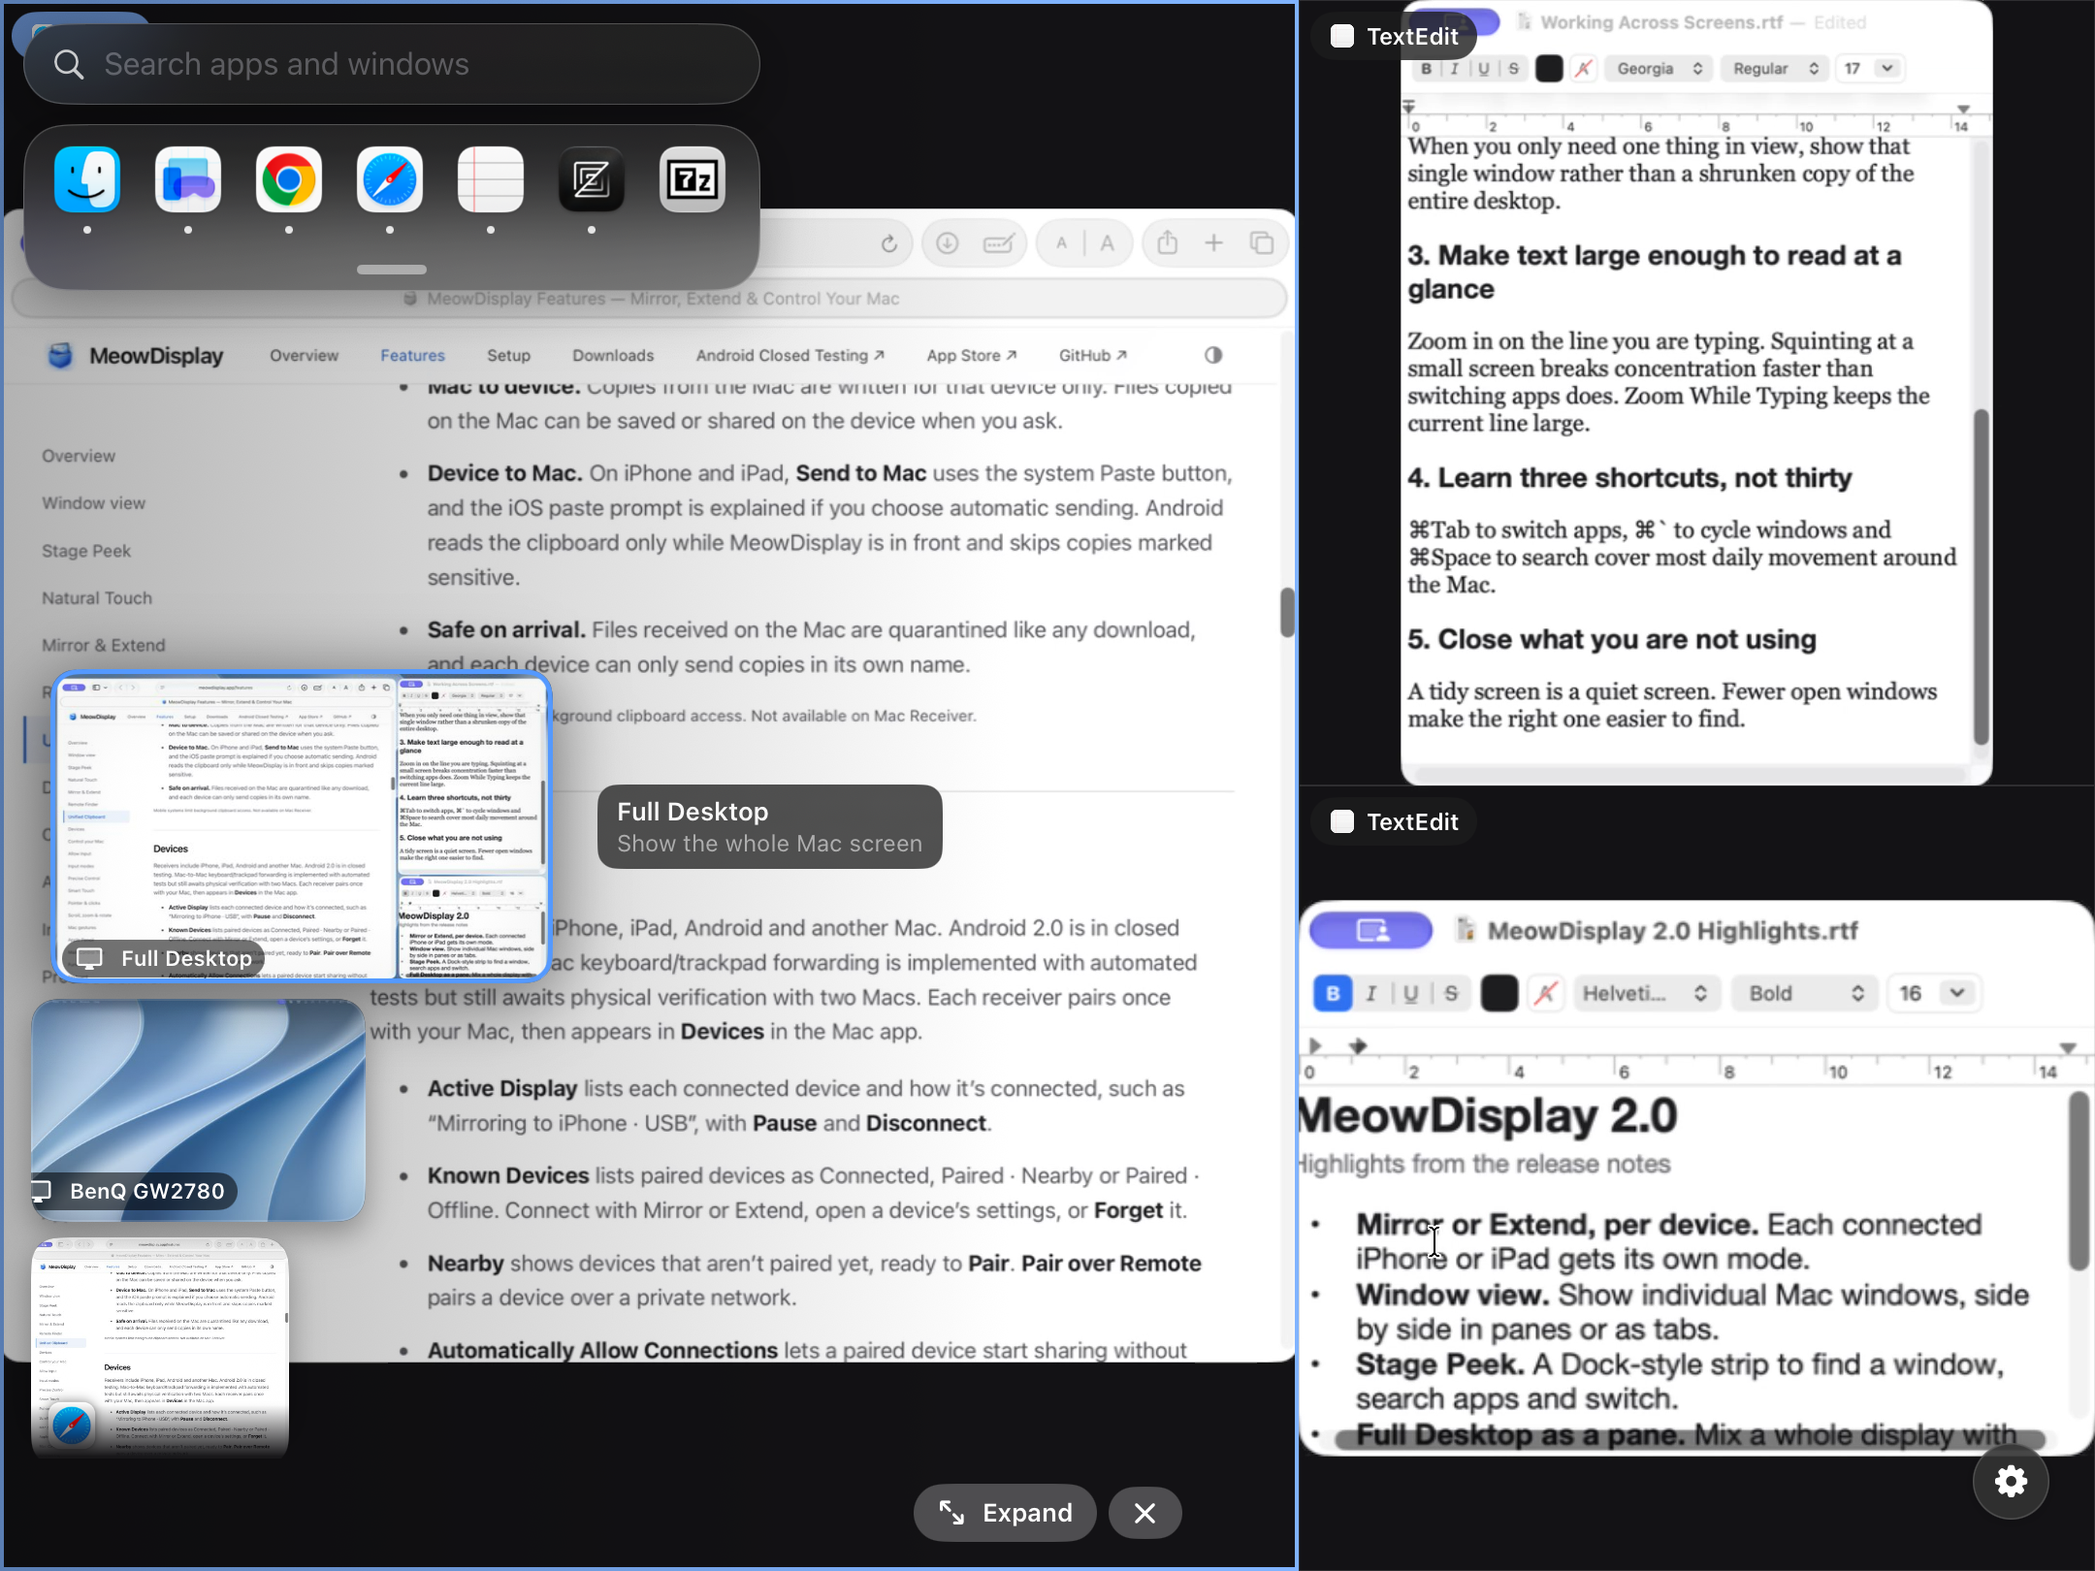
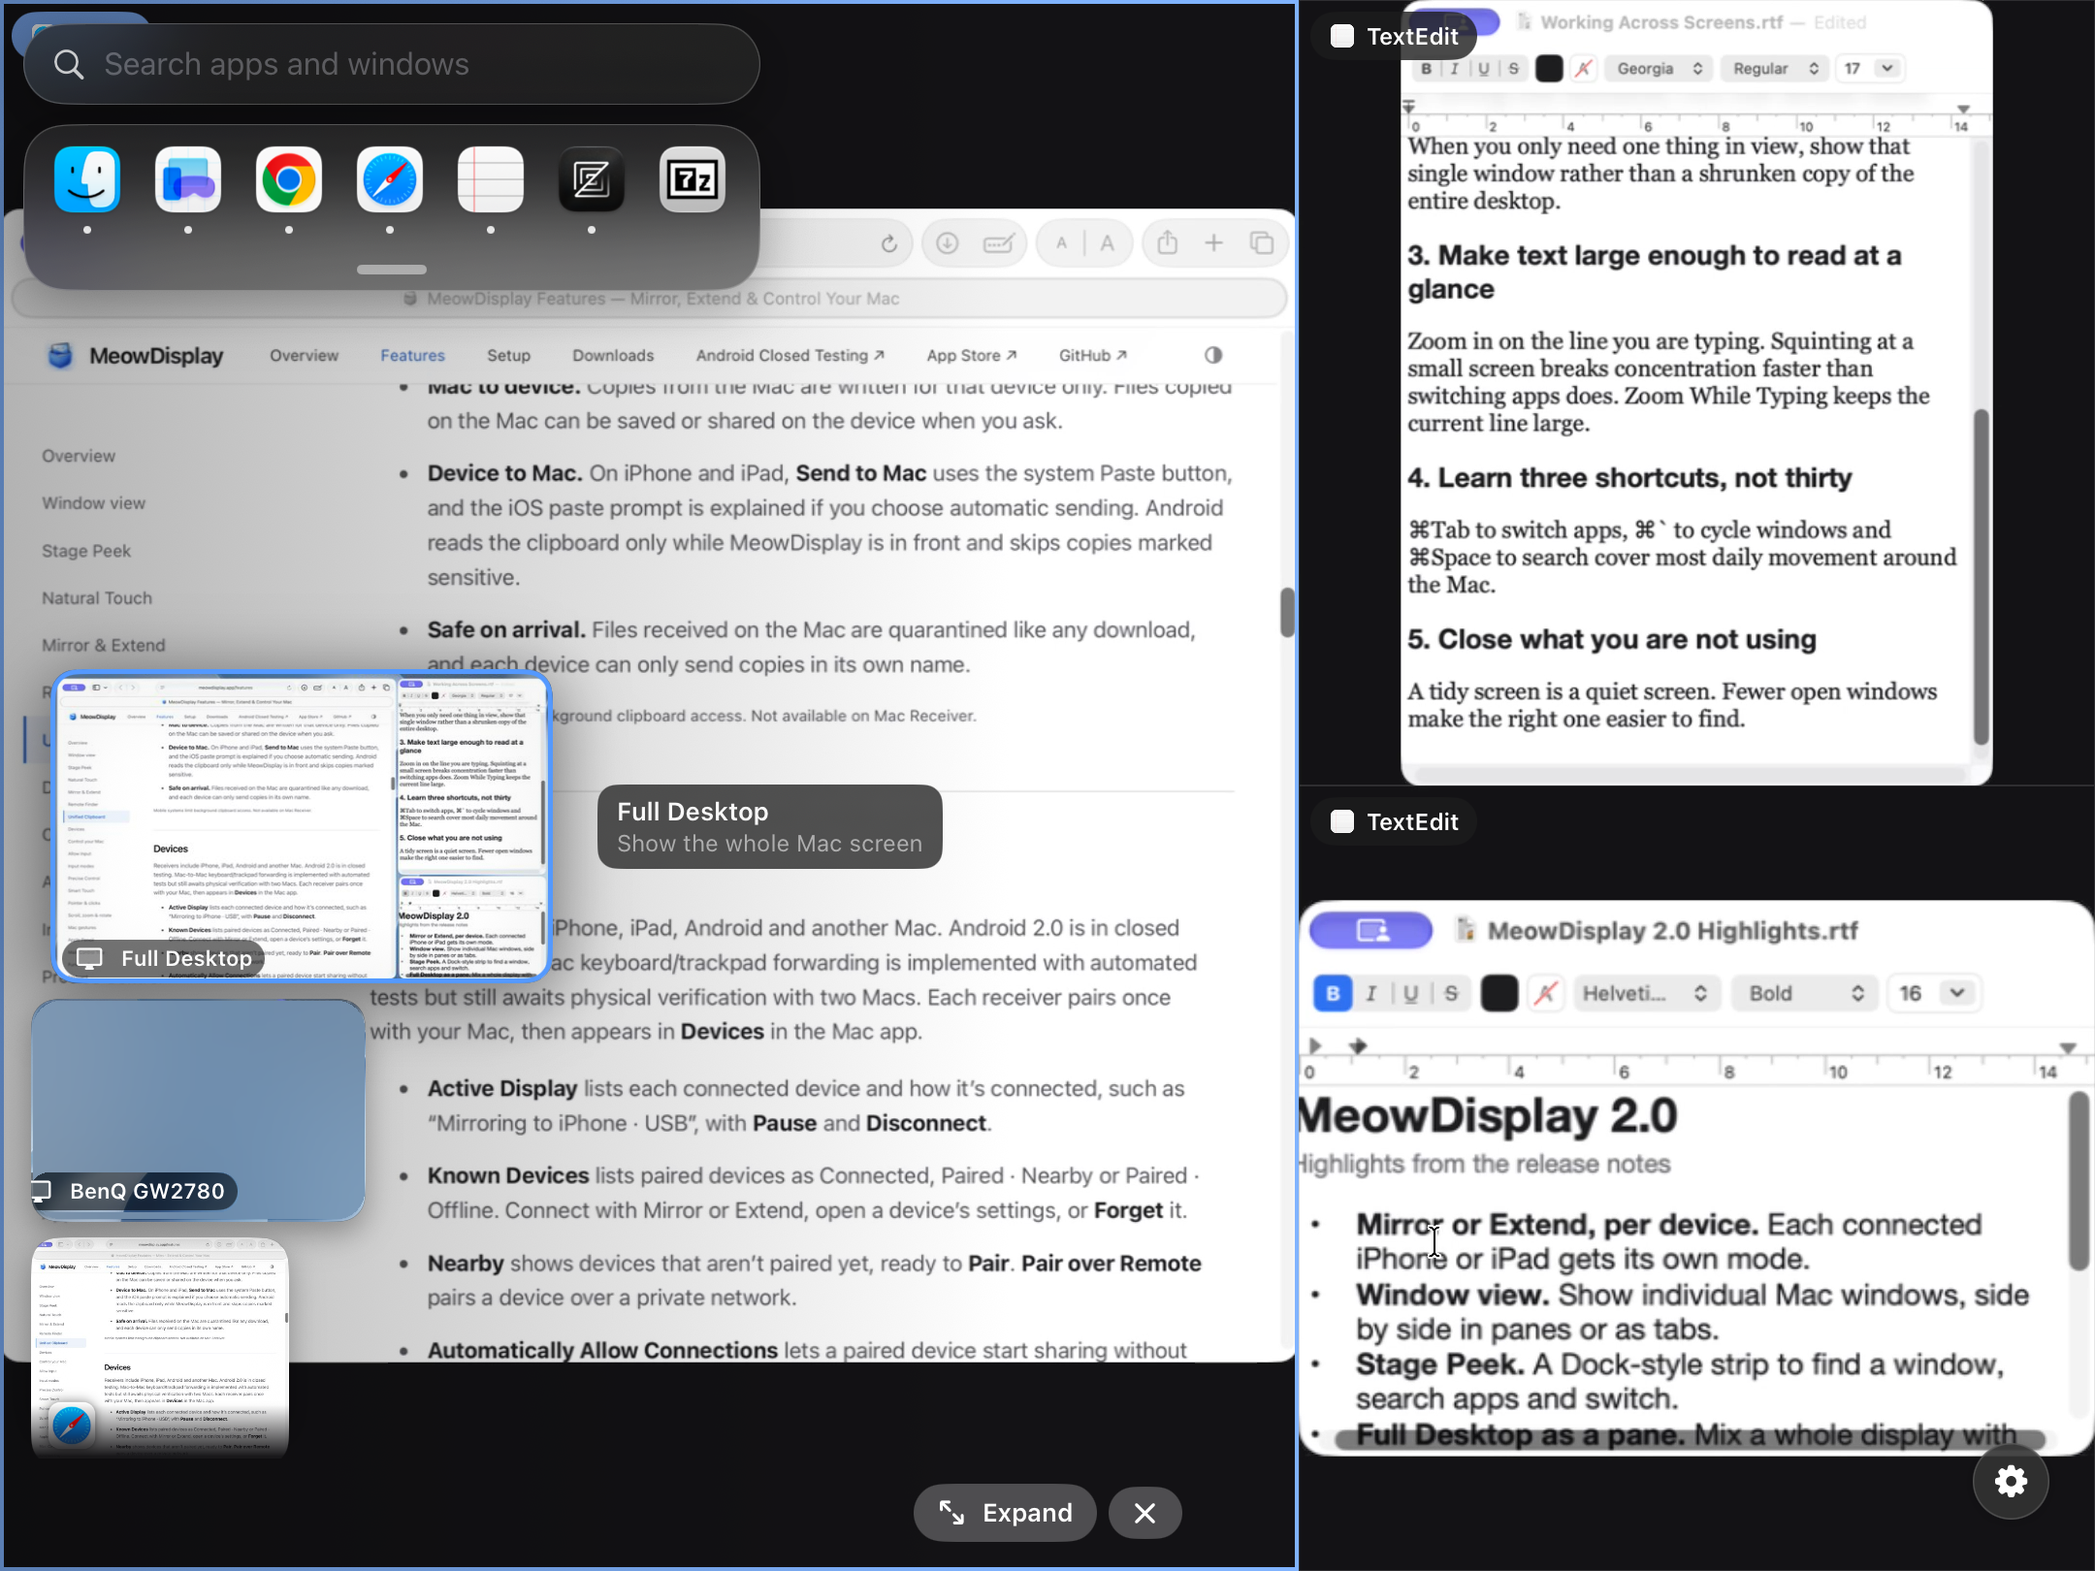
fix(press): remove MacBook mockups and wallpaper from the press kit (r3)
The MacBook mockups showed a third-party desktop wallpaper whose
redistribution rights could not be verified, and Apple's marketing
artwork licence covers App Store apps while the Mac app ships directly.
Promotional graphics now use the unframed Mac app window, the display
thumbnail in the Stage Peek screenshots is blurred, and the complete
download moves to MeowDisplay-Press-Kit-2.0-r3.zip.

Changed region(s): [[0.0, 0.6173, 0.1861, 0.8025]]

diff --git a/tools/press-kit/press.template.html b/tools/press-kit/press.template.html
@@ -7,7 +7,7 @@
 <link rel="icon" href="/assets/favicon.png"><meta name="color-scheme" content="light dark">
 <script>try{var t=localStorage.getItem('md-theme');if(t==='light'||t==='dark')document.documentElement.dataset.theme=t}catch(e){}</script>
 <link rel="stylesheet" href="/style.css"><script src="/site.js" defer></script>
-<style>{{STYLE}}</style><meta property="og:title" content="MeowDisplay Press Kit"><meta property="og:type" content="website"><meta property="og:url" content="https://meowdisplay.app/press"><meta property="og:image" content="https://meowdisplay.app/press-kit/Graphics/MeowDisplay-Social-1200x630.png"><meta property="og:image:alt" content="MeowDisplay on a MacBook Air and an iPhone, showing Mac windows side by side."><meta name="twitter:card" content="summary_large_image"></head>
+<style>{{STYLE}}</style><meta property="og:title" content="MeowDisplay Press Kit"><meta property="og:type" content="website"><meta property="og:url" content="https://meowdisplay.app/press"><meta property="og:image" content="https://meowdisplay.app/press-kit/Graphics/MeowDisplay-Social-1200x630.png"><meta property="og:image:alt" content="The MeowDisplay Mac app and an iPhone showing Mac windows side by side."><meta name="twitter:card" content="summary_large_image"></head>
 <body>
 <a class="skip" href="#main">Skip to content</a>
 <header class="site-header">

diff --git a/tools/press-kit/build.py b/tools/press-kit/build.py
@@ -21,8 +21,8 @@ CATEGORIES = ["Screenshots", "Mockups", "Graphics", "Video", "Brand", "Informati
 ZIP_NAMES = {c: f"MeowDisplay-Press-Kit-{c}.zip" for c in CATEGORIES}
 ZIP_DATE = (2026, 11, 3, 0, 0, 0)
 # Over Cloudflare Pages' 25 MiB file limit, so it is published as a GitHub Release asset, not on the site.
-# Each content revision gets a new asset name on the press-kit-2.0 release; earlier assets stay published unchanged.
-COMPLETE_NAME = "MeowDisplay-Press-Kit-2.0-r2.zip"
+# Each content revision gets a new asset name on the press-kit-2.0 release; superseded assets are removed.
+COMPLETE_NAME = "MeowDisplay-Press-Kit-2.0-r3.zip"
 COMPLETE_URL = f"https://github.com/raiseCatError/meowdisplay/releases/download/press-kit-2.0/{COMPLETE_NAME}"
 
 COLLECTIONS = [
@@ -31,7 +31,7 @@ COLLECTIONS = [
      ["iPad-Window-View-Three-Panes", "iPhone-Window-View-Two-Panes", "iPad-Window-Picker", "iPhone-Window-Picker"]),
     ("stage-peek", "Stage Peek",
      "Swipe in from the edge to see running apps, open windows and the Mac's displays, then switch or add a pane.",
-     ["iPad-Stage-Peek", "iPhone-Stage-Peek", "iPhone-Stage-Peek-Expanded"]),
+     ["iPad-Stage-Peek", "iPhone-Stage-Peek"]),
     ("input", "Touch, keyboard and typing",
      "A control tray with modifier keys and shortcuts, three touch modes, a Text Bar and Zoom While Typing.",
      ["iPhone-Typing-Zoom-While-Typing", "iPhone-Control-Tray", "iPad-Settings-Input"]),
@@ -158,7 +158,7 @@ def page(items, zips):
 <p class="pk-actions"><a class="button" href="{COMPLETE_URL}">Download complete press kit</a><span class="pk-note">ZIP · {mb(total)} · {len(items)} assets plus README ({len(items) + 1} files) · hosted on GitHub<br>SHA-256 <code class="pk-sha">{hashlib.sha256((KIT / COMPLETE_NAME).read_bytes()).hexdigest()}</code></span></p>
 <nav class="pk-jump" aria-label="Press kit sections"><a href="#features">Features</a><a href="#screenshots">Screenshots</a><a href="#mockups">Device mockups</a><a href="#video">B-roll</a><a href="#graphics">Graphics</a><a href="#text">Text &amp; facts</a><a href="#reviewers">Reviewer's guide</a><a href="#brand">Brand</a><a href="#downloads">Downloads</a><a href="#contact">Contact</a></nav>
 </div>
-<div class="pk-hero-art wrap">{figure(by["Hero-Transparent"], 2000, "pk-plain", "MeowDisplay on a MacBook Air (M2) and an iPhone 14 Pro Max: the Mac app with two devices connected, and Mac windows side by side on the iPhone.", eager=True)}</div></section>''']
+<div class="pk-hero-art wrap">{figure(by["Hero-Transparent"], 2000, "pk-plain", "The MeowDisplay Mac app with two devices connected, and Mac windows side by side on an iPhone 14 Pro Max.", eager=True)}</div></section>''']
 
     out.append('''<section class="section pk-overview"><div class="wrap">
 <p class="eyebrow">Overview</p><h2>Your Mac, on the screens you already own.</h2>
@@ -190,14 +190,14 @@ def page(items, zips):
     grid = "".join(f'<div class="pk-cell" data-platform="{i["file"].split("/")[1]}">{figure(i, 900)}</div>' for i in shots)
     counts = {p: sum(1 for i in shots if i["file"].split("/")[1] == p) for p in ["iPhone", "iPad", "Mac"]}
     out.append(f'''<section class="section" id="screenshots"><div class="wrap"><p class="eyebrow">Screenshots</p><h2>Original screenshots.</h2>
-<p class="pk-sub">Native-resolution, unedited captures of the released 2.0.0 apps on a physical iPhone 14 Pro Max, iPad (9th generation) and MacBook Air (M2), with demonstration content only. Two window-picker images are cropped.</p>
+<p class="pk-sub">Native-resolution captures of the released 2.0.0 apps on a physical iPhone 14 Pro Max, iPad (9th generation) and MacBook Air (M2), with demonstration content only. The only edits: two window-picker images are cropped, and the external-display thumbnail in the two Stage Peek images is blurred to remove a third-party wallpaper.</p>
 <div class="pk-filter" role="group" aria-label="Filter screenshots by platform"><button type="button" aria-pressed="true" data-filter="all">All {len(shots)}</button><button type="button" aria-pressed="false" data-filter="iPhone">iPhone {counts["iPhone"]}</button><button type="button" aria-pressed="false" data-filter="iPad">iPad {counts["iPad"]}</button><button type="button" aria-pressed="false" data-filter="Mac">Mac {counts["Mac"]}</button></div>
 <div class="pk-grid">{grid}</div>
 <p class="pk-dl"><a href="/press-kit/{ZIP_NAMES["Screenshots"]}" download>Download all screenshots · ZIP · {mb(zips["Screenshots"])}</a></p></div></section>''')
 
     mocks = "".join(figure(i, 1400, "pk-plain") for i in cat("Mockups"))
     out.append(f'''<section class="section wash" id="mockups"><div class="wrap"><p class="eyebrow">Device mockups</p><h2>Real screens, real hardware.</h2>
-<p class="pk-sub">Transparent PNGs: the screenshots above composited into Apple's official iPhone 14 Pro Max and MacBook Air 13-inch (M2) product frames. The plain MacBook shows the desktop with no windows. Apple no longer publishes an iPad (9th generation) frame, so iPad images are supplied as screenshots.</p>
+<p class="pk-sub">Transparent PNGs: iPhone screenshots composited into Apple's official iPhone 14 Pro Max frame. The Mac app is distributed outside the App Store, so it is shown as an unframed window rather than in a MacBook frame. Apple no longer publishes an iPad (9th generation) frame, so iPad images are supplied as screenshots.</p>
 <div class="pk-grid pk-grid-2">{mocks}</div>
 <p class="pk-dl"><a href="/press-kit/{ZIP_NAMES["Mockups"]}" download>Download all mockups · ZIP · {mb(zips["Mockups"])}</a></p></div></section>''')
 

diff --git a/press-kit/Information/MeowDisplay-Usage-and-Brand-Guidelines.md b/press-kit/Information/MeowDisplay-Usage-and-Brand-Guidelines.md
@@ -9,9 +9,7 @@ Journalists, reviewers and creators may reproduce the following, unmodified, in 
 
 Please credit "MeowDisplay" and link to https://meowdisplay.app where the format allows.
 
-Device mockups and promotional graphics that contain Apple product images are different. The device frames belong to Apple. The developer uses them under Apple's App Store Marketing Artwork License, which is non-transferable and limited to marketing MeowDisplay, so we cannot grant you any rights in Apple's artwork. These images are published to promote MeowDisplay and are meant to be shown unaltered in coverage of it. Do not extract, edit or reuse the device frames, and do not use these images for anything else. For hardware imagery in other contexts, use the unframed screenshots or obtain artwork from Apple yourself.
-
-The MacBook images also show the developer's desktop wallpaper, a third-party picture whose rights are not covered by this permission.
+Device mockups and promotional graphics that contain Apple product images are different. The iPhone frames belong to Apple. The developer uses them under Apple's App Store Marketing Artwork License, which is non-transferable and limited to marketing the MeowDisplay app on the App Store, so we cannot grant you any rights in Apple's artwork. These images are published to promote MeowDisplay and are meant to be shown unaltered in coverage of it. Do not extract, edit or reuse the device frames, and do not use these images for anything else. For hardware imagery in other contexts, use the unframed screenshots or obtain artwork from Apple yourself.
 
 For any other use, email j@raisecaterror.com.
 
@@ -29,9 +27,9 @@ Use the supplied PNGs as they are. Do not redraw, recolour, crop, stretch or add
 - Remote Access needs a private-network route such as Tailscale; do not describe it as a cloud service.
 
 ## Three kinds of media
-1. Screenshots — unedited captures of the released 2.0.0 apps on a physical iPhone 14 Pro Max, iPad (9th generation) and MacBook Air (M2). Two window-picker images are cropped, which is noted in the asset notes.
-2. Device mockups — the same screenshots composited into Apple's official product frames. They are illustrations of the real interface, not photographs.
-3. Promotional graphics — layouts combining mockups, screenshots, the icon and short text.
+1. Screenshots — captures of the released 2.0.0 apps on a physical iPhone 14 Pro Max, iPad (9th generation) and MacBook Air (M2). Two window-picker images are cropped and the display thumbnail in the two Stage Peek images is blurred, as noted in the asset notes.
+2. Device mockups — iPhone screenshots composited into Apple's official iPhone 14 Pro Max frame. They are illustrations of the real interface, not photographs. There are no MacBook or iPad mockups: the Mac app is distributed outside the App Store, so Apple's marketing-artwork licence does not clearly cover a MacBook frame for it, and no rights-cleared iPad (9th generation) frame was available.
+3. Promotional graphics — layouts combining iPhone mockups, unframed Mac app screenshots, the icon and short text.
 
 ## Third-party marks and artwork
-Apple, iPhone, iPad, MacBook Air, Mac, macOS, Safari, TextEdit and Stage Manager are trademarks of Apple Inc. MeowDisplay is not affiliated with or endorsed by Apple. Device frames in the mockups and promotional graphics are Apple product images, used by the developer under Apple's App Store Marketing Artwork License and Apple's marketing guidelines. They remain Apple's property, and the raw frames are not distributed in this kit. The Mac wallpaper in the MacBook images is a third-party desktop picture, shown as displayed; it is not licensed for separate use. Web pages shown are meowdisplay.app. The quotation in the demonstration document is by Steve Jobs (Rolling Stone, 1994).
+Apple, iPhone, iPad, MacBook Air, Mac, macOS, Safari, TextEdit and Stage Manager are trademarks of Apple Inc. MeowDisplay is not affiliated with or endorsed by Apple. The iPhone frames in the mockups and promotional graphics are Apple product images, used by the developer under Apple's App Store Marketing Artwork License and Apple's marketing guidelines for the App Store app. They remain Apple's property, and the raw frames are not distributed in this kit. No desktop wallpaper is reproduced: the display thumbnails in the two Stage Peek screenshots are blurred, and the iPad Mirror screenshot shows only thin slivers of the Mac desktop between windows. Web pages shown are meowdisplay.app. The quotation in the demonstration document is by Steve Jobs (Rolling Stone, 1994).

diff --git a/press-kit/Information/MeowDisplay-Asset-Notes.md b/press-kit/Information/MeowDisplay-Asset-Notes.md
@@ -5,13 +5,14 @@ Captured 3 November 2026 by the developer.
 ## Hardware and software
 - iPhone 14 Pro Max, iOS 27.0.1, MeowDisplay 2.0.0 from the App Store. Native landscape screenshots, 2796 × 1290.
 - iPad (9th generation), iPadOS 27.0.1, MeowDisplay 2.0.0 from the App Store. Native landscape screenshots, 2160 × 1620.
-- MacBook Air (M2), macOS 27.0, MeowDisplay 2.0.0 for Mac (notarized GitHub release). Built-in display captures, 2940 × 1912; Settings window captures, 1638 × 1576.
+- MacBook Air (M2), macOS 27.0, MeowDisplay 2.0.0 for Mac (notarized GitHub release). Mac app window captures, 1638 × 1576 (window only, no desktop).
 
 ## Method
 Live sessions between the released apps, not Demo Mode and not the simulator. The devices were driven by an XCUITest runner attached to the App Store app; nothing was rebuilt or replaced. Demonstration content: meowdisplay.app in Safari and two TextEdit documents written for the shoot. Orientation was applied and all metadata removed on export.
 
 ## Edits
-- Screenshots are unedited except: iPhone and iPad window-picker images are cropped to the header and first row of windows to exclude unrelated windows.
-- Mockups place screenshots, scaled to the exact screen size, inside Apple's iPhone 14 Pro Max (Space Black) and MacBook Air 13-inch M2 (Midnight) frames.
+- Screenshots are unedited except: iPhone and iPad window-picker images are cropped to the header and first row of windows to exclude unrelated windows, and in the iPhone and iPad Stage Peek screenshots the external-display thumbnail is blurred to remove a third-party desktop wallpaper whose rights could not be verified.
+- Mockups place screenshots, scaled to the exact screen size, inside Apple's iPhone 14 Pro Max (Space Black) frame. Promotional graphics show the Mac app as an unframed window screenshot.
+- No MacBook mockup is provided: Apple's marketing-artwork licence covers apps available on the App Store, and the Mac app is distributed directly.
 - No iPad (9th generation) mockup is provided: Apple no longer publishes that frame, and no other rights-cleared frame was available. iPad images are provided as screenshots.
 - B-roll is trimmed from the screen recordings of the same sessions. No speed changes, overlays, captions, audio or logos.
